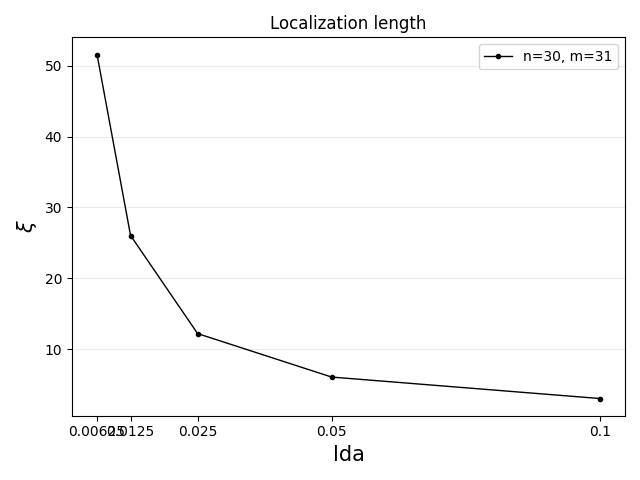
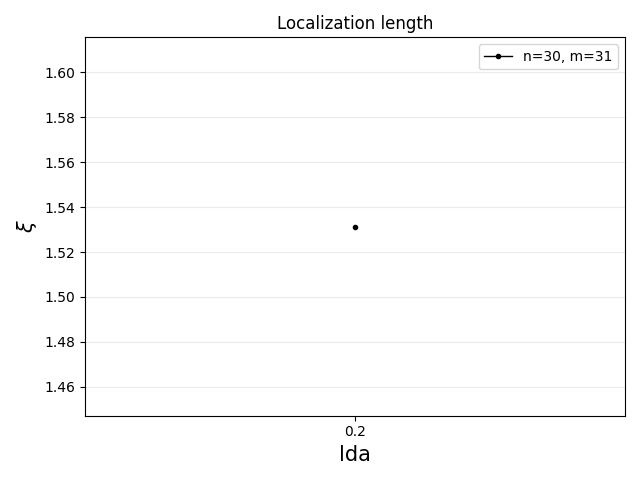
8/21

diff --git a/plot_many_data.py b/plot_many_data.py
@@ -29,8 +29,7 @@ if __name__ == '__main__':
             for p in power: variation_values.append(float(2 ** p))
             '''
         elif variation_param == 'lda':
-            power = range(-4, 1)
-            variation_values = [0.1*(2**p) for p in power]
+            variation_values = [0.2]
         else:
             variation_values = np.arange(0, 0.6, 0.1)
 
@@ -62,17 +61,17 @@ if __name__ == '__main__':
             parameters, x_fit, d_fit = model.get_exp_dissolve_fit(x_fit, d_fit, log=True, return_log=True)
             A, B, xi, C = parameters
             xi_list.append(xi)
-            '''
+            
             fig, ax = plt.subplots(figsize=(10, 5))
             ax.plot(x_fit,d_fit,color='green')
-            '''
+            
             band_gap_list.append(model.evals_list[0][states[1] + 1] - model.evals_list[0][states[0] - 1])
             split_list.append(model.evals_list[0][states[1]] - model.evals_list[0][states[0]])
-            #DataPlot.draw_rsd(model, rsd_data, ax=ax, log=True)
+            DataPlot.draw_rsd(model, rsd_data, ax=ax, log=True)
         
         if variation_param == 'size': variation_values = [int(value) for value in variation_values]
         print("xi list = ", xi_list)
-        #DataPlot.draw_any_data(model,(variation_values, xi_list, variation_param, r"$\xi$", f"n={n}, m={m}", None), title="Localization length", log=False)
+        DataPlot.draw_any_data(model,(variation_values, xi_list, variation_param, r"$\xi$", f"n={n}, m={m}", None), title="Localization length", log=False)
 
         #DataPlot.draw_any_data(model,(variation_values, band_gap_list, variation_param, "Band Gap (E/t)", fr"$\lambda$={params[3]}", [0, 0.367043]), title="Band Gap", log=True, x_inverse=True)
 

diff --git a/plot_data.py b/plot_data.py
@@ -34,7 +34,8 @@ if __name__ == '__main__':
         xlist, dlist, _, _, _, _, _ = rsd_data
         xlist = xlist[:len(xlist)//2]
         dlist = dlist[0][:len(dlist[0])//2]
-        A,B,xi,C = model.get_exp_dissolve_fit(xlist, dlist, log=True)
+        parameters, _, _ = model.get_exp_dissolve_fit(xlist, dlist, log=True)
+        A,B,xi,C=parameters
         print(f"xi(lda={model.params[3]})={xi}")
 
         fig, ax = plt.subplots(figsize=(10, 5))
@@ -50,8 +51,8 @@ if __name__ == '__main__':
         e_list = []
         for i, s in enumerate(e):
             site = [2*model.s_comp(*s), 2*model.s_comp(*s)+1]
-            elt = [model.evecs_list[0][states[1]][site[0]], model.evecs_list[0][states[1]][site[1]]]
-            #print(f"e{i+1}' = ({elt[0]:.10f}, {elt[1]:.10f})")
+            elt = [model.evecs_list[0][states[0]][site[0]], model.evecs_list[0][states[0]][site[1]]]
+            if i == 3 or i == 6: print(f"e{i+1} = ({elt[0]:.4f}, {elt[1]:.4f})")
             density = np.abs(elt[0])**2 + np.abs(elt[1])**2
             density_list.append(density)
             for elt_i in elt: e_list.append(elt_i)

diff --git a/system_model.py b/system_model.py
@@ -90,22 +90,26 @@ class System(ABC):
             else: return -1 # 감소도 안 했을 때
 
         def is_peak(i): # 앞 뒤 3개를 보고 peak인지 아닌지 판단한다
-            is_left_decrease, is_right_decrease = False, False
             
             m1, m2, m3 = is_decrease(i, i-1), is_decrease(i, i-2), is_decrease(i, i-3)
             p1, p2, p3 = is_decrease(i, i+1), is_decrease(i, i+2), is_decrease(i, i+3)
 
+            is_left_decrease = 4*m1 + 2*m2 + m3 > 0
+            '''
             if m1 == 1: is_left_decrease = True
             elif m1 == 0:
                 if m2 == 1: is_left_decrease = True
                 elif m2 == 0:
                     if m3 == 1: is_left_decrease = True
-
+            '''
+            is_right_decrease = 4*p1 + 2*p2 + p3 > 0
+            '''
             if p1 == 1: is_right_decrease = True
             elif p1 == 0:
                 if p2 == 1: is_right_decrease = True
                 elif p2 == 0:
                     if p3 == 1: is_right_decrease = True
+            '''
 
             return is_left_decrease and is_right_decrease
         
